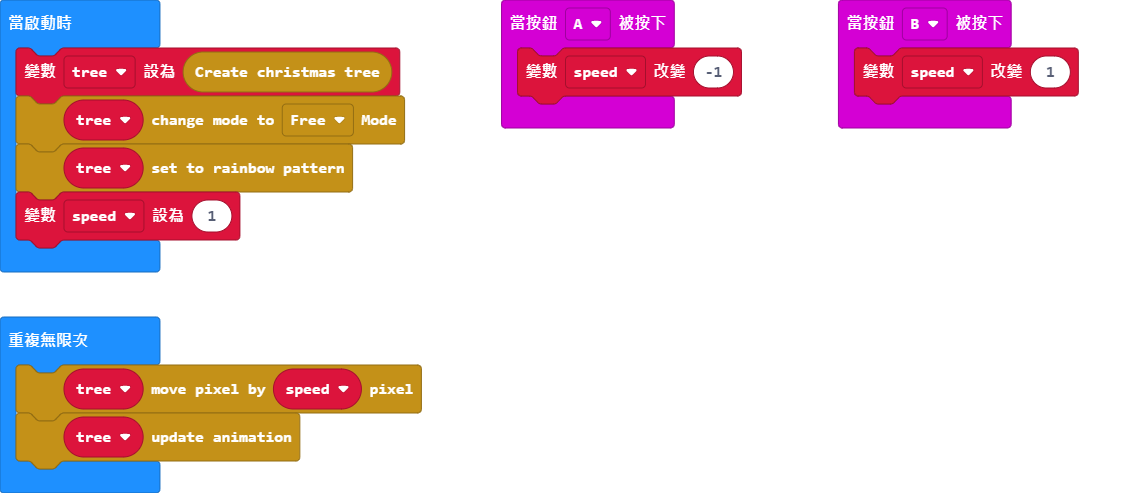
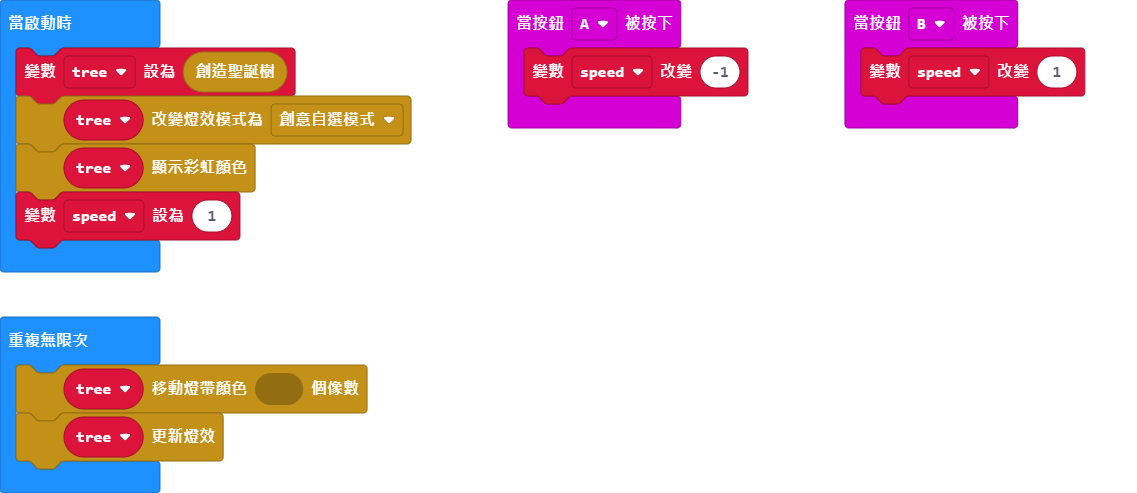
Update pxt.json, main.blocks, main.ts

diff --git a/main.ts b/main.ts
@@ -9,6 +9,6 @@ tree.changeMode(LEDMode.Free)
 tree.showRainbow()
 let speed = 1
 basic.forever(function () {
-    tree.rotatePixelColor(speed)
+    tree.rotatePixelColor(0)
     tree.update()
 })
